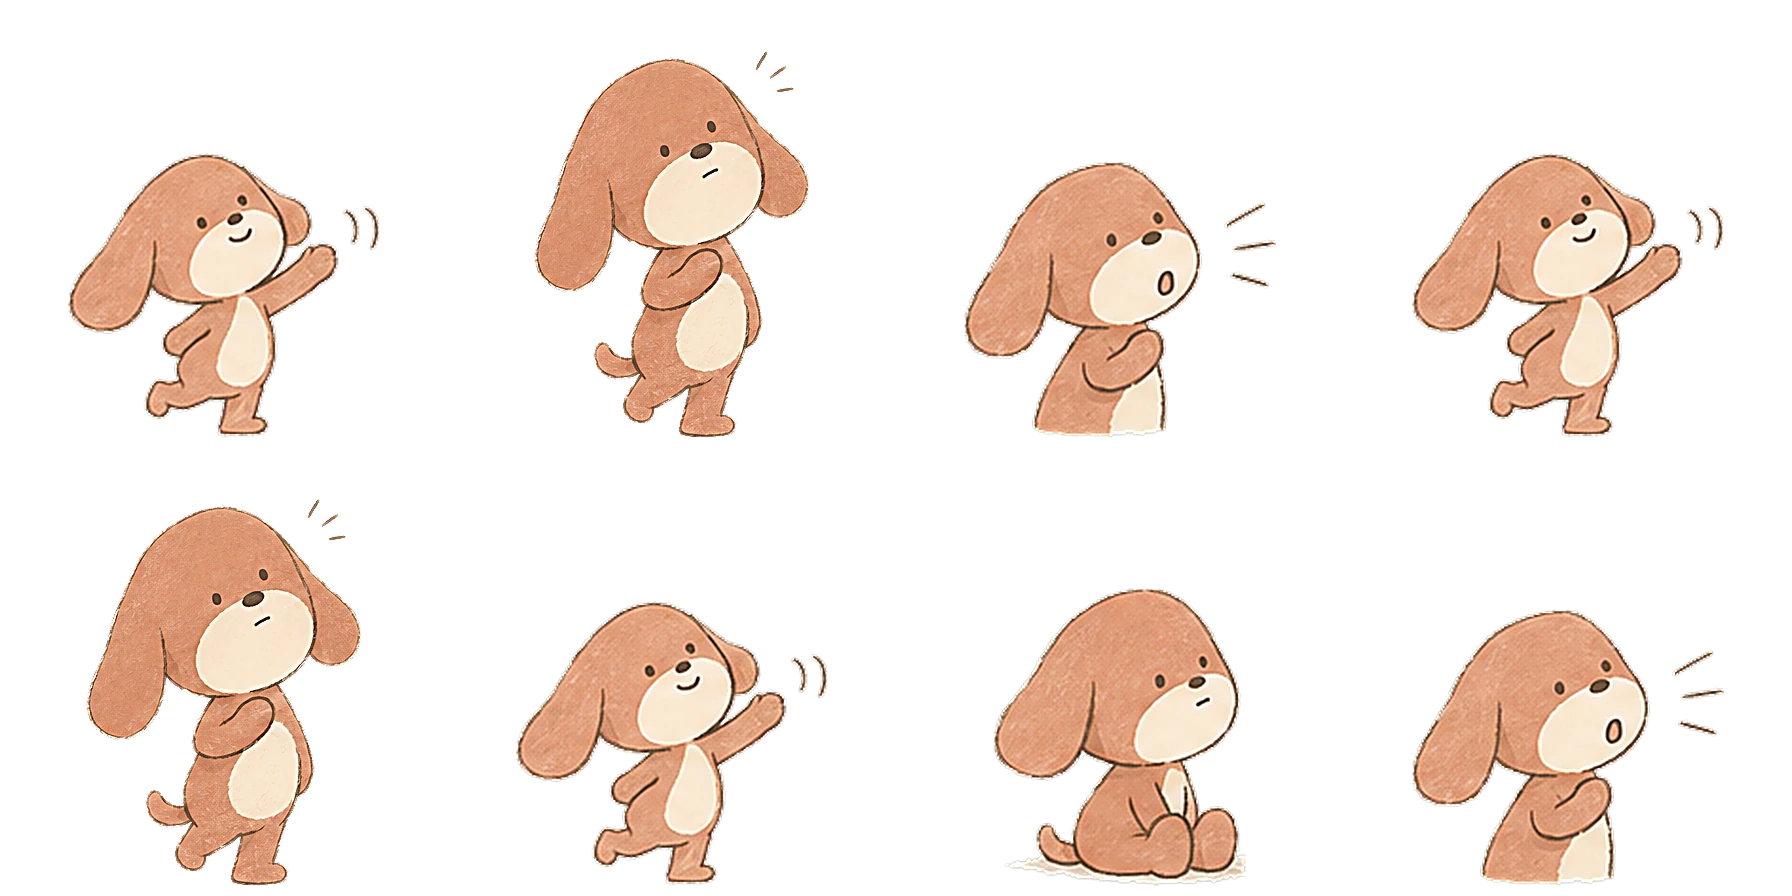
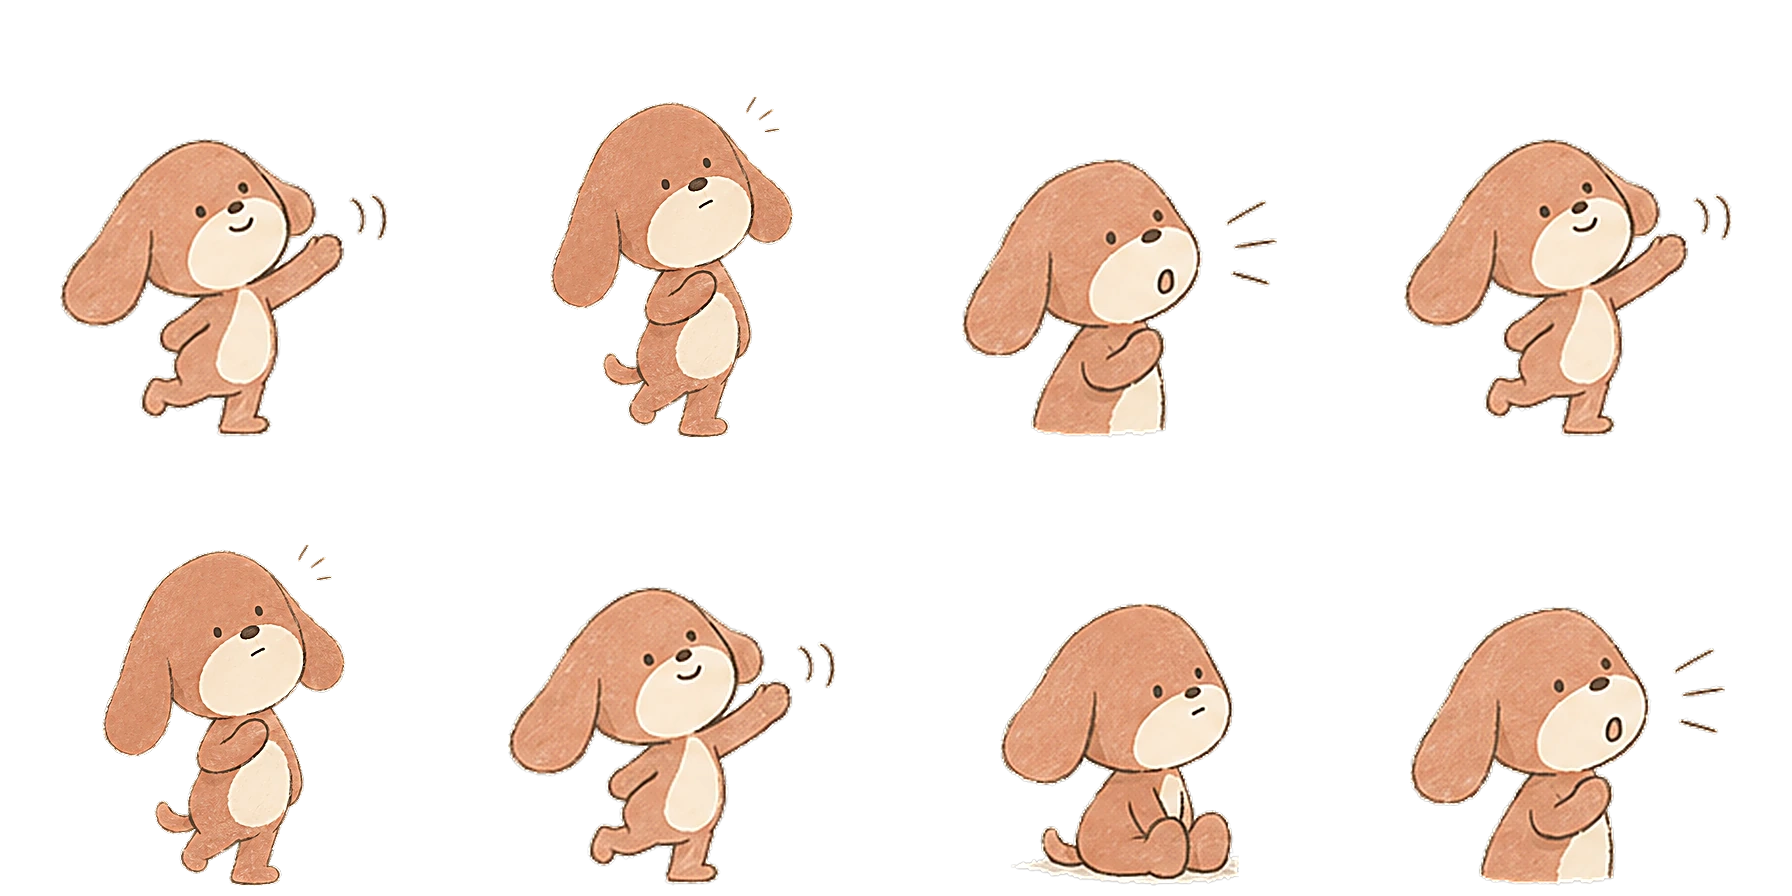
세 친구 크기 비율을 대문 라디오 장면에 맞춤 · 구간 목록 글씨 작게
- 동작 그림 시트를 다시 만듦: 그림마다 배율을 따로 두어 머리 크기를 각 친구의
  앉은 그림(라디오 장면)에 맞춤. 손 흔드는 말문이 +11%, 점프하는 귀담이 +27%,
  책 읽기·엄지 차분이 +6%, 큰 말문이 -12% 등 (tools/cutout_muted.py HEAD/SCALE)
- 첫 실행 '반가워' 장면: 귀담이와 차분이가 부딪히지 않게 덜 겹치게
- 구간 화면 '← 구간 목록' 15px → 13px

diff --git a/css/style.css b/css/style.css
@@ -703,6 +703,11 @@ p.jtokens { font-size: 30px; letter-spacing: 8px; }
 .nameform input { font: inherit; font-size: 20px; padding: 10px 14px; border: 2px solid var(--scene-deep); border-radius: 14px; width: min(100%, 240px); text-align: center; }
 .welcome .friends.small { width: 220px; margin: 0 auto; }
 .welcome .friends { width: 280px; margin: 0 auto; }
+/* 친구 크기를 라디오 장면 비율로 맞춘 뒤(점프 귀담이·차분이가 커짐) 서로 부딪히지 않게 덜 겹친다 */
+.welcome .friends:not(.small) { width: min(340px, 100%); }
+.welcome .friends:not(.small) .pose { width: 42%; }
+.welcome .friends:not(.small) .pose:nth-child(2) { width: 46%; }
+.welcome .friends:not(.small) .pose + .pose { margin-left: -14%; }
 .btn.big { font-size: 20px; padding: 12px 28px; }
 .name-set { flex-wrap: wrap; align-items: center; gap: 8px; margin-bottom: 10px; }
 .name-set input { font: inherit; padding: 6px 10px; border: 1px solid var(--line); border-radius: 10px; width: 140px; }
@@ -749,7 +754,7 @@ p.jtokens { font-size: 30px; letter-spacing: 8px; }
 @media (max-width: 560px) { .sec-head h2 { font-size: 22px; } .sec-head .qbtn { white-space: nowrap; } }
 /* 구간 화면: 위 막대 '구간 목록으로', 이름 앞 범위 */
 /* 작은 돌아가기 링크 (구간 화면) */
-.crumb { display: inline-block; margin: 16px 0 14px; font-size: 15px; color: var(--quiet); text-decoration: underline; text-underline-offset: 3px; }
+.crumb { display: inline-block; margin: 16px 0 14px; font-size: 13px; color: var(--quiet); text-decoration: underline; text-underline-offset: 3px; }
 .crumb:hover { color: var(--acc); }
 .region-hero-card h2 .h2-range { color: var(--acc); margin-right: 4px; }
 .region-hero-card h2 { word-break: keep-all; }
